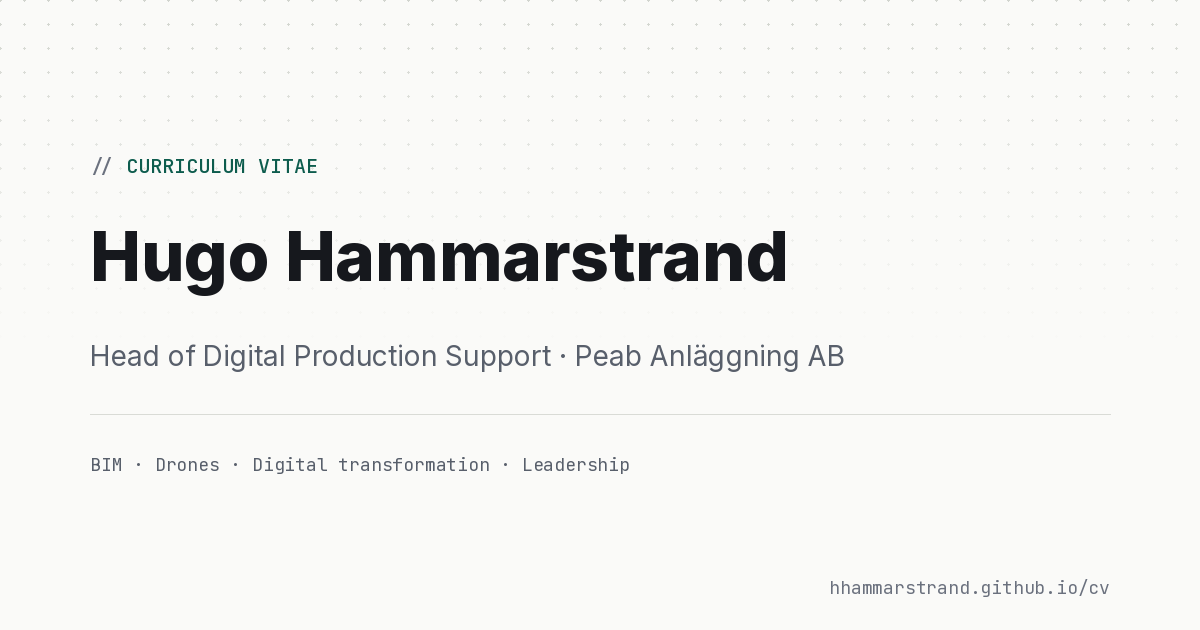
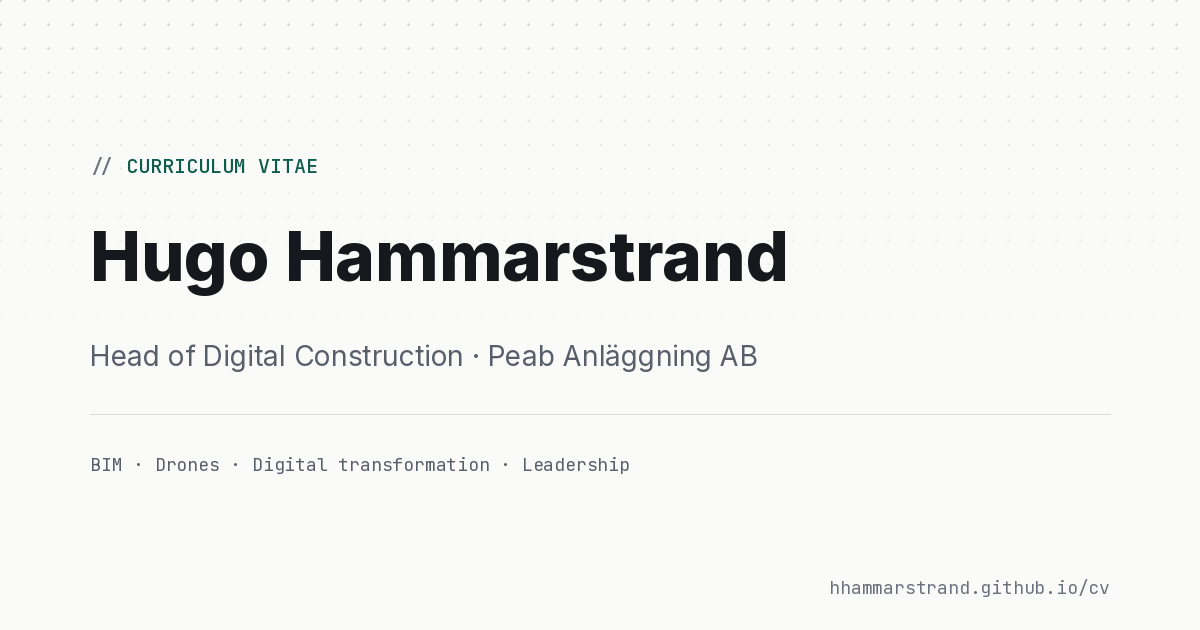
Change English title to Head of Digital Construction
"Digital Production Support" reads as IT ops support in English.
Updated in hero, meta descriptions, JSON-LD, terminal easter egg
and the regenerated English share card.

Claude-Session: https://claude.ai/code/session_01WUVNoq2pNk6rfk7cXL9Sed

Changed region(s): [[0.2467, 0.5429, 0.7092, 0.6032]]

diff --git a/en/index.html b/en/index.html
@@ -3,7 +3,7 @@
 <head>
   <meta charset="UTF-8">
   <meta name="viewport" content="width=device-width, initial-scale=1.0">
-  <meta name="description" content="CV – Hugo Hammarstrand, Head of Digital Production Support">
+  <meta name="description" content="CV – Hugo Hammarstrand, Head of Digital Construction">
   <title>Hugo Hammarstrand — CV</title>
   <link rel="icon" type="image/svg+xml" href="../favicon.svg">
   <link rel="canonical" href="https://hhammarstrand.github.io/cv/en/">
@@ -13,17 +13,17 @@
 
   <meta property="og:type" content="profile">
   <meta property="og:title" content="Hugo Hammarstrand — CV">
-  <meta property="og:description" content="Head of Digital Production Support at Peab Anläggning AB. 12+ years in construction, scaled the group's drone operations from 2 to ~100 pilots.">
+  <meta property="og:description" content="Head of Digital Construction at Peab Anläggning AB. 12+ years in construction, scaled the group's drone operations from 2 to ~100 pilots.">
   <meta property="og:url" content="https://hhammarstrand.github.io/cv/en/">
   <meta property="og:image" content="https://hhammarstrand.github.io/cv/og-image-en.png">
   <meta property="og:image:width" content="1200">
   <meta property="og:image:height" content="630">
-  <meta property="og:image:alt" content="Hugo Hammarstrand — Head of Digital Production Support, Peab Anläggning AB">
+  <meta property="og:image:alt" content="Hugo Hammarstrand — Head of Digital Construction, Peab Anläggning AB">
   <meta property="og:locale" content="en_US">
   <meta property="og:locale:alternate" content="sv_SE">
   <meta name="twitter:card" content="summary_large_image">
   <meta name="twitter:title" content="Hugo Hammarstrand — CV">
-  <meta name="twitter:description" content="Head of Digital Production Support at Peab Anläggning AB.">
+  <meta name="twitter:description" content="Head of Digital Construction at Peab Anläggning AB.">
   <meta name="twitter:image" content="https://hhammarstrand.github.io/cv/og-image-en.png">
 
   <script type="application/ld+json">
@@ -31,7 +31,7 @@
     "@context": "https://schema.org",
     "@type": "Person",
     "name": "Hugo Hammarstrand",
-    "jobTitle": "Head of Digital Production Support",
+    "jobTitle": "Head of Digital Construction",
     "worksFor": { "@type": "Organization", "name": "Peab Anläggning AB" },
     "email": "mailto:hhammarstrand@gmail.com",
     "url": "https://hhammarstrand.github.io/cv/en/",
@@ -59,7 +59,7 @@
     <header class="hero">
       <p class="overline">curriculum vitae</p>
       <h1>Hugo Hammarstrand</h1>
-      <p class="title">Head of Digital Production Support · Peab Anläggning AB</p>
+      <p class="title">Head of Digital Construction · Peab Anläggning AB</p>
       <p class="tagline">
         Experienced leader at the intersection of technology, innovation and business
         development. Built the Peab Group's drone operations from two to nearly one
@@ -82,7 +82,7 @@
 
         <article class="entry">
           <div class="entry-header">
-            <h3>Head of Digital Production Support</h3>
+            <h3>Head of Digital Construction</h3>
             <span class="period">May 2022 — present</span>
           </div>
           <p class="org">Peab Anläggning AB · Gothenburg</p>
@@ -191,7 +191,7 @@
             The group's in-house drone operation: orthophotos, point clouds, terrain
             models, volume calculations and 360 views. Ran Peab Air 2018–2022 with a
             team of four and responsibility for all pilots across the group. The
-            operation is now part of Digital Production Support.
+            operation is now part of the unit I lead.
           </p>
         </article>
 

diff --git a/script.js b/script.js
@@ -71,9 +71,9 @@ revealEls.forEach(el => revealObserver.observe(el));
       '  clear       clear terminal\n' +
       '  exit        close terminal (or Esc)',
     whoami: () =>
-      'Hugo Hammarstrand\nChef Digitalt Produktionsstöd @ Peab Anläggning AB\nBIM · drones · digital transformation',
+      'Hugo Hammarstrand\nHead of Digital Construction @ Peab Anläggning AB\nBIM · drones · digital transformation',
     experience: () =>
-      '2022–     Chef Digitalt Produktionsstöd, Peab Anläggning\n' +
+      '2022–     Head of Digital Construction, Peab Anläggning\n' +
       '2019–22   BIM coordinator (drone program lead 2018–22)\n' +
       '2016–19   BIM coordinator\n' +
       '2015–16   Surveyor\n' +

diff --git a/tools/generate-og.py b/tools/generate-og.py
@@ -40,7 +40,7 @@ VARIANTS = {
         "tags": "BIM · Drönare · Digital transformation · Ledarskap",
     },
     "og-image-en.png": {
-        "title": "Head of Digital Production Support · Peab Anläggning AB",
+        "title": "Head of Digital Construction · Peab Anläggning AB",
         "tags": "BIM · Drones · Digital transformation · Leadership",
     },
 }
